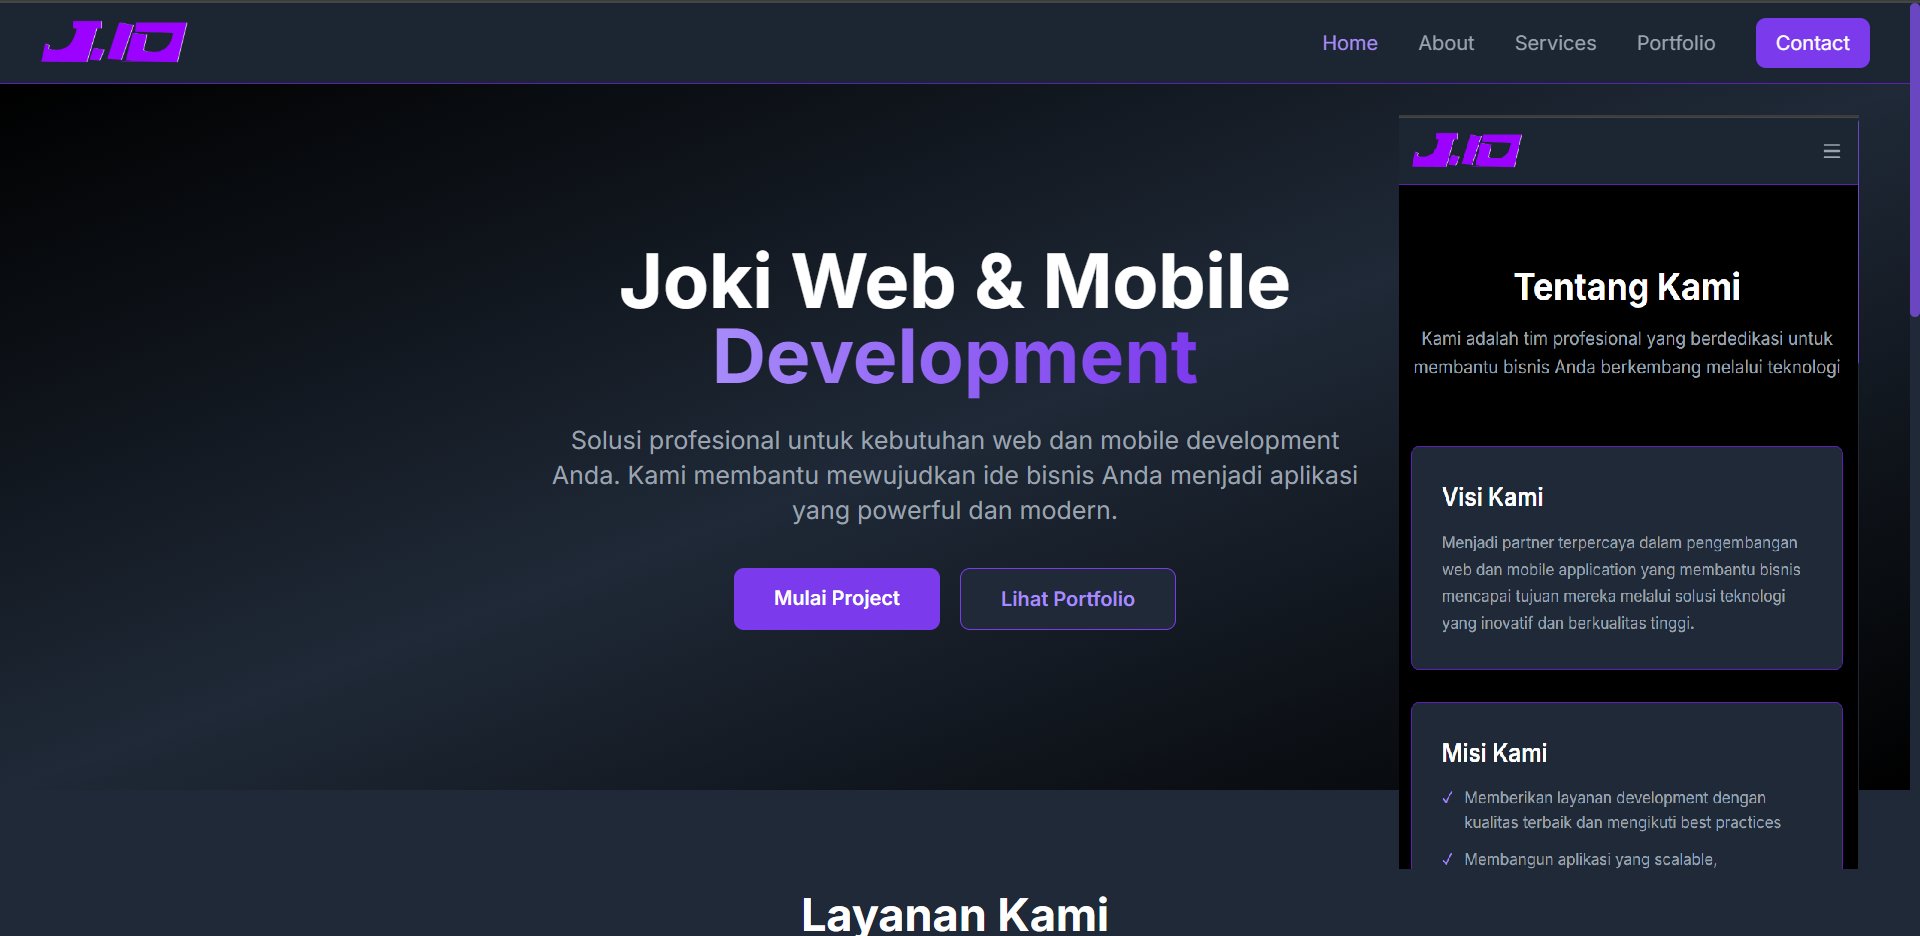
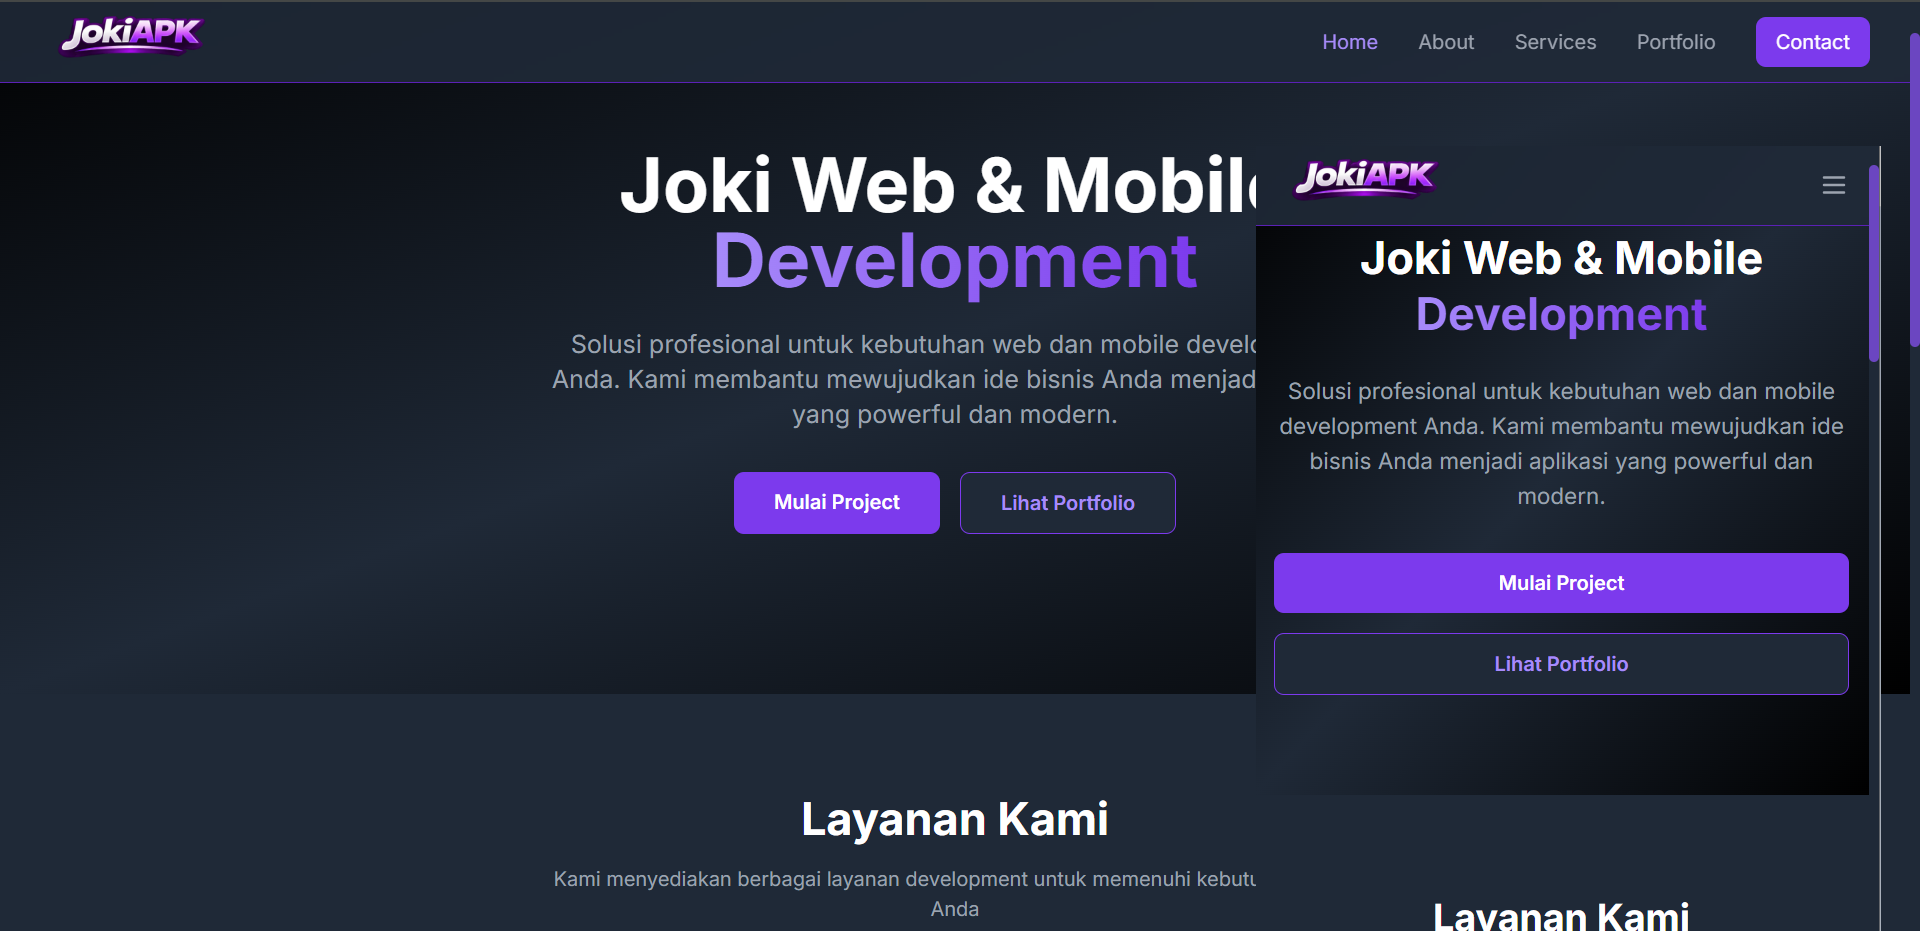
update

diff --git a/company-profile.html b/company-profile.html
@@ -25,7 +25,7 @@
     <nav class="bg-dark-grey border-b border-primary-800 fixed top-0 left-0 right-0 z-50 backdrop-blur-sm bg-opacity-90 transition-all duration-300 ease-in-out" data-header>
         <div class="container mx-auto px-4 sm:px-6 lg:px-8">
             <div class="flex justify-between items-center h-16">
-                <a href="index.html" class="flex items-center"><img src="images/logo.png" alt="JokiAPK Logo" class="h-10 w-auto"></a>
+                <a href="index.html" class="flex items-center"><img src="images/logo.png" alt="JokiAPK Logo" class="h-36 w-auto"></a>
                 <div class="hidden md:flex items-center space-x-8">
                     <a href="index.html" data-nav-link class="text-dark-text hover:text-primary-400 transition-colors">Home</a>
                     <a href="about.html" data-nav-link class="text-dark-text hover:text-primary-400 transition-colors">About</a>
@@ -103,7 +103,7 @@
     <footer class="bg-dark-grey border-t border-primary-800 mt-auto">
         <div class="container mx-auto px-4 sm:px-6 lg:px-8 py-8">
             <div class="grid grid-cols-1 md:grid-cols-3 gap-8">
-                <div><div class="flex items-center mb-4"><img src="images/logo.png" alt="JokiAPK Logo" class="h-10 w-auto"></div><p class="text-dark-text text-sm">Layanan joki web dan mobile development profesional dengan kualitas terbaik untuk kebutuhan bisnis Anda.</p></div>
+                <div><div class="flex items-center mb-4"><img src="images/logo.png" alt="JokiAPK Logo" class="h-28 w-auto"></div><p class="text-dark-text text-sm">Layanan joki web dan mobile development profesional dengan kualitas terbaik untuk kebutuhan bisnis Anda.</p></div>
                 <div><h3 class="text-white font-semibold mb-4">Quick Links</h3><ul class="space-y-2"><li><a href="index.html" class="text-dark-text hover:text-primary-400 transition-colors text-sm">Home</a></li><li><a href="about.html" class="text-dark-text hover:text-primary-400 transition-colors text-sm">About</a></li><li><a href="services.html" class="text-dark-text hover:text-primary-400 transition-colors text-sm">Services</a></li><li><a href="portfolio.html" class="text-dark-text hover:text-primary-400 transition-colors text-sm">Portfolio</a></li><li><a href="contact.html" class="text-dark-text hover:text-primary-400 transition-colors text-sm">Contact</a></li></ul></div>
                 <div><h3 class="text-white font-semibold mb-4">Contact</h3><ul class="space-y-2 text-sm text-dark-text"><li>Email: aryahidayat1111@gmail.com</li><li>WhatsApp: +62 081 5248 66651</li></ul></div>
             </div>
@@ -114,4 +114,5 @@
     <script>document.getElementById('current-year').textContent = new Date().getFullYear();</script>
 </body>
 </html>
+
 

diff --git a/mobile-apps.html b/mobile-apps.html
@@ -25,7 +25,7 @@
     <nav class="bg-dark-grey border-b border-primary-800 fixed top-0 left-0 right-0 z-50 backdrop-blur-sm bg-opacity-90 transition-all duration-300 ease-in-out" data-header>
         <div class="container mx-auto px-4 sm:px-6 lg:px-8">
             <div class="flex justify-between items-center h-16">
-                <a href="index.html" class="flex items-center"><img src="images/logo.png" alt="JokiAPK Logo" class="h-10 w-auto"></a>
+                <a href="index.html" class="flex items-center"><img src="images/logo.png" alt="JokiAPK Logo" class="h-36 w-auto"></a>
                 <div class="hidden md:flex items-center space-x-8">
                     <a href="index.html" data-nav-link class="text-dark-text hover:text-primary-400 transition-colors">Home</a>
                     <a href="about.html" data-nav-link class="text-dark-text hover:text-primary-400 transition-colors">About</a>
@@ -88,7 +88,7 @@
     <footer class="bg-dark-grey border-t border-primary-800 mt-auto">
         <div class="container mx-auto px-4 sm:px-6 lg:px-8 py-8">
             <div class="grid grid-cols-1 md:grid-cols-3 gap-8">
-                <div><div class="flex items-center mb-4"><img src="images/logo.png" alt="JokiAPK Logo" class="h-10 w-auto"></div><p class="text-dark-text text-sm">Layanan joki web dan mobile development profesional dengan kualitas terbaik untuk kebutuhan bisnis Anda.</p></div>
+                <div><div class="flex items-center mb-4"><img src="images/logo.png" alt="JokiAPK Logo" class="h-28 w-auto"></div><p class="text-dark-text text-sm">Layanan joki web dan mobile development profesional dengan kualitas terbaik untuk kebutuhan bisnis Anda.</p></div>
                 <div><h3 class="text-white font-semibold mb-4">Quick Links</h3><ul class="space-y-2"><li><a href="index.html" class="text-dark-text hover:text-primary-400 transition-colors text-sm">Home</a></li><li><a href="about.html" class="text-dark-text hover:text-primary-400 transition-colors text-sm">About</a></li><li><a href="services.html" class="text-dark-text hover:text-primary-400 transition-colors text-sm">Services</a></li><li><a href="portfolio.html" class="text-dark-text hover:text-primary-400 transition-colors text-sm">Portfolio</a></li><li><a href="contact.html" class="text-dark-text hover:text-primary-400 transition-colors text-sm">Contact</a></li></ul></div>
                 <div><h3 class="text-white font-semibold mb-4">Contact</h3><ul class="space-y-2 text-sm text-dark-text"><li>Email: aryahidayat1111@gmail.com</li><li>WhatsApp: +62 081 5248 66651</li></ul></div>
             </div>
@@ -99,4 +99,5 @@
     <script>document.getElementById('current-year').textContent = new Date().getFullYear();</script>
 </body>
 </html>
+
 

diff --git a/portfolio.html b/portfolio.html
@@ -25,7 +25,7 @@
     <nav class="bg-dark-grey border-b border-primary-800 fixed top-0 left-0 right-0 z-50 backdrop-blur-sm bg-opacity-90 transition-all duration-300 ease-in-out" data-header>
         <div class="container mx-auto px-4 sm:px-6 lg:px-8">
             <div class="flex justify-between items-center h-16">
-                <a href="index.html" class="flex items-center"><img src="images/logo.png" alt="JokiAPK Logo" class="h-10 w-auto"></a>
+                <a href="index.html" class="flex items-center"><img src="images/logo.png" alt="JokiAPK Logo" class="h-36 w-auto"></a>
                 <div class="hidden md:flex items-center space-x-8">
                     <a href="index.html" data-nav-link class="text-dark-text hover:text-primary-400 transition-colors">Home</a>
                     <a href="about.html" data-nav-link class="text-dark-text hover:text-primary-400 transition-colors">About</a>
@@ -85,7 +85,7 @@
     <footer class="bg-dark-grey border-t border-primary-800 mt-auto">
         <div class="container mx-auto px-4 sm:px-6 lg:px-8 py-8">
             <div class="grid grid-cols-1 md:grid-cols-3 gap-8">
-                <div><div class="flex items-center mb-4"><img src="images/logo.png" alt="JokiAPK Logo" class="h-10 w-auto"></div><p class="text-dark-text text-sm">Layanan joki web dan mobile development profesional dengan kualitas terbaik untuk kebutuhan bisnis Anda.</p></div>
+                <div><div class="flex items-center mb-4"><img src="images/logo.png" alt="JokiAPK Logo" class="h-28 w-auto"></div><p class="text-dark-text text-sm">Layanan joki web dan mobile development profesional dengan kualitas terbaik untuk kebutuhan bisnis Anda.</p></div>
                 <div><h3 class="text-white font-semibold mb-4">Quick Links</h3><ul class="space-y-2"><li><a href="index.html" class="text-dark-text hover:text-primary-400 transition-colors text-sm">Home</a></li><li><a href="about.html" class="text-dark-text hover:text-primary-400 transition-colors text-sm">About</a></li><li><a href="services.html" class="text-dark-text hover:text-primary-400 transition-colors text-sm">Services</a></li><li><a href="portfolio.html" class="text-dark-text hover:text-primary-400 transition-colors text-sm">Portfolio</a></li><li><a href="contact.html" class="text-dark-text hover:text-primary-400 transition-colors text-sm">Contact</a></li></ul></div>
                 <div><h3 class="text-white font-semibold mb-4">Contact</h3><ul class="space-y-2 text-sm text-dark-text"><li>Email: aryahidayat1111@gmail.com</li><li>WhatsApp: +62 081 5248 66651</li></ul></div>
             </div>
@@ -96,4 +96,5 @@
     <script>document.getElementById('current-year').textContent = new Date().getFullYear();</script>
 </body>
 </html>
+
 

diff --git a/services.html b/services.html
@@ -25,7 +25,7 @@
     <nav class="bg-dark-grey border-b border-primary-800 fixed top-0 left-0 right-0 z-50 backdrop-blur-sm bg-opacity-90 transition-all duration-300 ease-in-out" data-header>
         <div class="container mx-auto px-4 sm:px-6 lg:px-8">
             <div class="flex justify-between items-center h-16">
-                <a href="index.html" class="flex items-center"><img src="images/logo.png" alt="JokiAPK Logo" class="h-10 w-auto"></a>
+                <a href="index.html" class="flex items-center"><img src="images/logo.png" alt="JokiAPK Logo" class="h-36 w-auto"></a>
                 <div class="hidden md:flex items-center space-x-8">
                     <a href="index.html" data-nav-link class="text-dark-text hover:text-primary-400 transition-colors">Home</a>
                     <a href="about.html" data-nav-link class="text-dark-text hover:text-primary-400 transition-colors">About</a>
@@ -112,7 +112,7 @@
     <footer class="bg-dark-grey border-t border-primary-800 mt-auto">
         <div class="container mx-auto px-4 sm:px-6 lg:px-8 py-8">
             <div class="grid grid-cols-1 md:grid-cols-3 gap-8">
-                <div><div class="flex items-center mb-4"><img src="public/images/logo.png" alt="JokiAPK Logo" class="h-10 w-auto"></div><p class="text-dark-text text-sm">Layanan joki web dan mobile development profesional dengan kualitas terbaik untuk kebutuhan bisnis Anda.</p></div>
+                <div><div class="flex items-center mb-4"><img src="images/logo.png" alt="JokiAPK Logo" class="h-28 w-auto"></div><p class="text-dark-text text-sm">Layanan joki web dan mobile development profesional dengan kualitas terbaik untuk kebutuhan bisnis Anda.</p></div>
                 <div><h3 class="text-white font-semibold mb-4">Quick Links</h3><ul class="space-y-2"><li><a href="index.html" class="text-dark-text hover:text-primary-400 transition-colors text-sm">Home</a></li><li><a href="about.html" class="text-dark-text hover:text-primary-400 transition-colors text-sm">About</a></li><li><a href="services.html" class="text-dark-text hover:text-primary-400 transition-colors text-sm">Services</a></li><li><a href="portfolio.html" class="text-dark-text hover:text-primary-400 transition-colors text-sm">Portfolio</a></li><li><a href="contact.html" class="text-dark-text hover:text-primary-400 transition-colors text-sm">Contact</a></li></ul></div>
                 <div><h3 class="text-white font-semibold mb-4">Contact</h3><ul class="space-y-2 text-sm text-dark-text"><li>Email: aryahidayat1111@gmail.com</li><li>WhatsApp: +62 081 5248 66651</li></ul></div>
             </div>

diff --git a/contact.html b/contact.html
@@ -25,7 +25,7 @@
     <nav class="bg-dark-grey border-b border-primary-800 fixed top-0 left-0 right-0 z-50 backdrop-blur-sm bg-opacity-90 transition-all duration-300 ease-in-out" data-header>
         <div class="container mx-auto px-4 sm:px-6 lg:px-8">
             <div class="flex justify-between items-center h-16">
-                <a href="index.html" class="flex items-center"><img src="images/logo.png" alt="JokiAPK Logo" class="h-10 w-auto"></a>
+                <a href="index.html" class="flex items-center"><img src="images/logo.png" alt="JokiAPK Logo" class="h-36 w-auto"></a>
                 <div class="hidden md:flex items-center space-x-8">
                     <a href="index.html" data-nav-link class="text-dark-text hover:text-primary-400 transition-colors">Home</a>
                     <a href="about.html" data-nav-link class="text-dark-text hover:text-primary-400 transition-colors">About</a>
@@ -126,7 +126,7 @@
     <footer class="bg-dark-grey border-t border-primary-800 mt-auto">
         <div class="container mx-auto px-4 sm:px-6 lg:px-8 py-8">
             <div class="grid grid-cols-1 md:grid-cols-3 gap-8">
-                <div><div class="flex items-center mb-4"><img src="images/logo.png" alt="JokiAPK Logo" class="h-10 w-auto"></div><p class="text-dark-text text-sm">Layanan joki web dan mobile development profesional dengan kualitas terbaik untuk kebutuhan bisnis Anda.</p></div>
+                <div><div class="flex items-center mb-4"><img src="images/logo.png" alt="JokiAPK Logo" class="h-28 w-auto"></div><p class="text-dark-text text-sm">Layanan joki web dan mobile development profesional dengan kualitas terbaik untuk kebutuhan bisnis Anda.</p></div>
                 <div><h3 class="text-white font-semibold mb-4">Quick Links</h3><ul class="space-y-2"><li><a href="index.html" class="text-dark-text hover:text-primary-400 transition-colors text-sm">Home</a></li><li><a href="about.html" class="text-dark-text hover:text-primary-400 transition-colors text-sm">About</a></li><li><a href="services.html" class="text-dark-text hover:text-primary-400 transition-colors text-sm">Services</a></li><li><a href="portfolio.html" class="text-dark-text hover:text-primary-400 transition-colors text-sm">Portfolio</a></li><li><a href="contact.html" class="text-dark-text hover:text-primary-400 transition-colors text-sm">Contact</a></li></ul></div>
                 <div><h3 class="text-white font-semibold mb-4">Contact</h3><ul class="space-y-2 text-sm text-dark-text"><li>Email: aryahidayat1111@gmail.com</li><li>WhatsApp: +62 081 5248 66651</li></ul></div>
             </div>

diff --git a/about.html b/about.html
@@ -33,7 +33,7 @@
         <div class="container mx-auto px-4 sm:px-6 lg:px-8">
             <div class="flex justify-between items-center h-16">
                 <a href="index.html" class="flex items-center">
-                    <img src="images/logo.png" alt="JokiAPK Logo" class="h-10 w-auto">
+                        <img src="images/logo.png" alt="JokiAPK Logo" class="h-36 w-auto">
                 </a>
                 <div class="hidden md:flex items-center space-x-8">
                     <a href="index.html" data-nav-link class="text-dark-text hover:text-primary-400 transition-colors">Home</a>
@@ -132,7 +132,7 @@
             <div class="grid grid-cols-1 md:grid-cols-3 gap-8">
                 <div>
                     <div class="flex items-center mb-4">
-                        <img src="images/logo.png" alt="JokiAPK Logo" class="h-10 w-auto">
+                        <img src="images/logo.png" alt="JokiAPK Logo" class="h-28 w-auto">
                     </div>
                     <p class="text-dark-text text-sm">Layanan joki web dan mobile development profesional dengan kualitas terbaik untuk kebutuhan bisnis Anda.</p>
                 </div>

diff --git a/index.html b/index.html
@@ -51,7 +51,7 @@
             <div class="flex justify-between items-center h-16">
                 <!-- Logo -->
                 <a href="index.html" class="flex items-center">
-                    <img src="images/logo.png" alt="JokiAPK Logo" class="h-10 w-auto">
+                    <img src="images/logo.png" alt="JokiAPK Logo" class="h-36 w-auto">
                 </a>
 
                 <!-- Desktop Navigation -->
@@ -216,7 +216,7 @@
                 <!-- Company Info -->
                 <div>
                     <div class="flex items-center mb-4">
-                        <img src="images/logo.png" alt="JokiAPK Logo" class="h-10 w-auto">
+                        <img src="images/logo.png" alt="JokiAPK Logo" class="h-28 w-auto">
                     </div>
                     <p class="text-dark-text text-sm">Layanan joki web dan mobile development profesional dengan kualitas terbaik untuk kebutuhan bisnis Anda.</p>
                 </div>

diff --git a/js/main.js b/js/main.js
@@ -63,3 +63,4 @@ document.addEventListener('DOMContentLoaded', () => {
     setActiveNavLink();
 });
 
+

diff --git a/css/style.css b/css/style.css
@@ -55,3 +55,4 @@ html {
     opacity: 1;
 }
 
+

diff --git a/FIX_VERCEL_404.md b/FIX_VERCEL_404.md
@@ -169,3 +169,4 @@ Jika masih error setelah semua langkah di atas:
 
 **File `vercel.json` sudah dibuat. Commit dan push ke GitHub, lalu redeploy di Vercel!**
 
+

diff --git a/README_HTML.md b/README_HTML.md
@@ -112,3 +112,4 @@ Jika ada pertanyaan atau masalah, hubungi:
 - Email: aryahidayat1111@gmail.com
 - WhatsApp: +62 815 2486 6651
 
+

diff --git a/DEPLOY_VERCEL.md b/DEPLOY_VERCEL.md
@@ -305,3 +305,4 @@ Setelah deploy, website Anda akan:
 
 Selamat! Website Anda sudah online! 🚀
 
+
